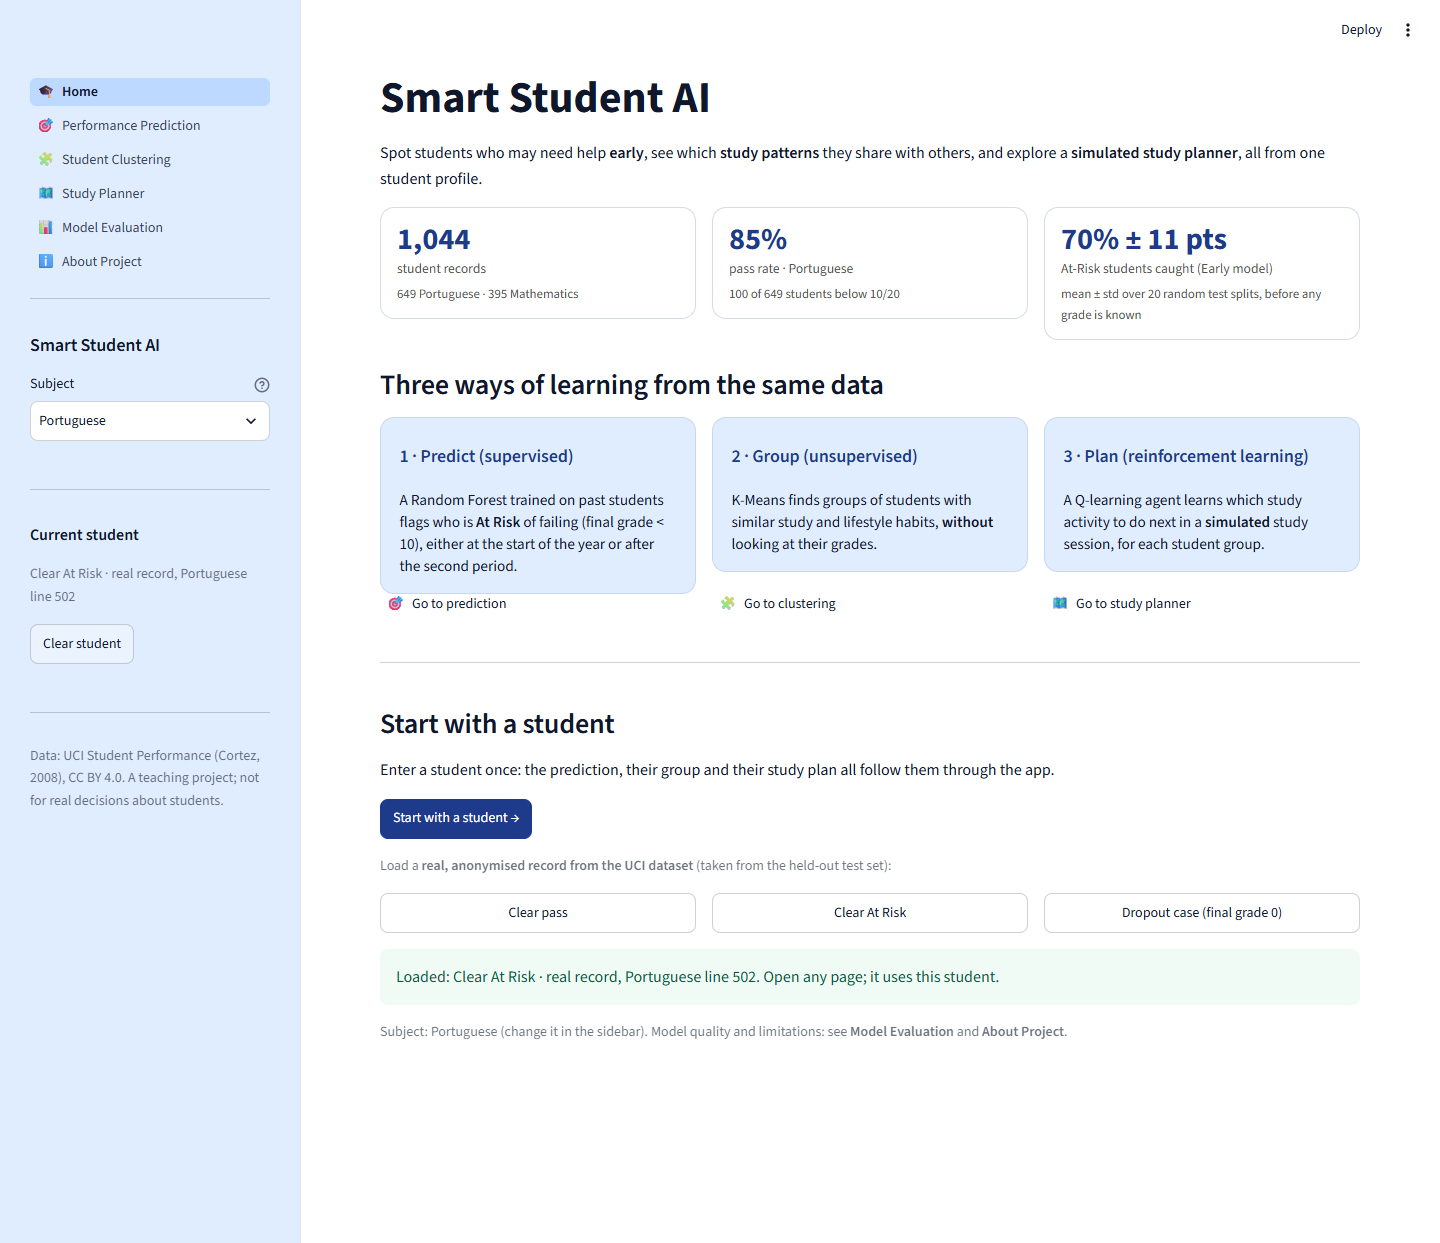
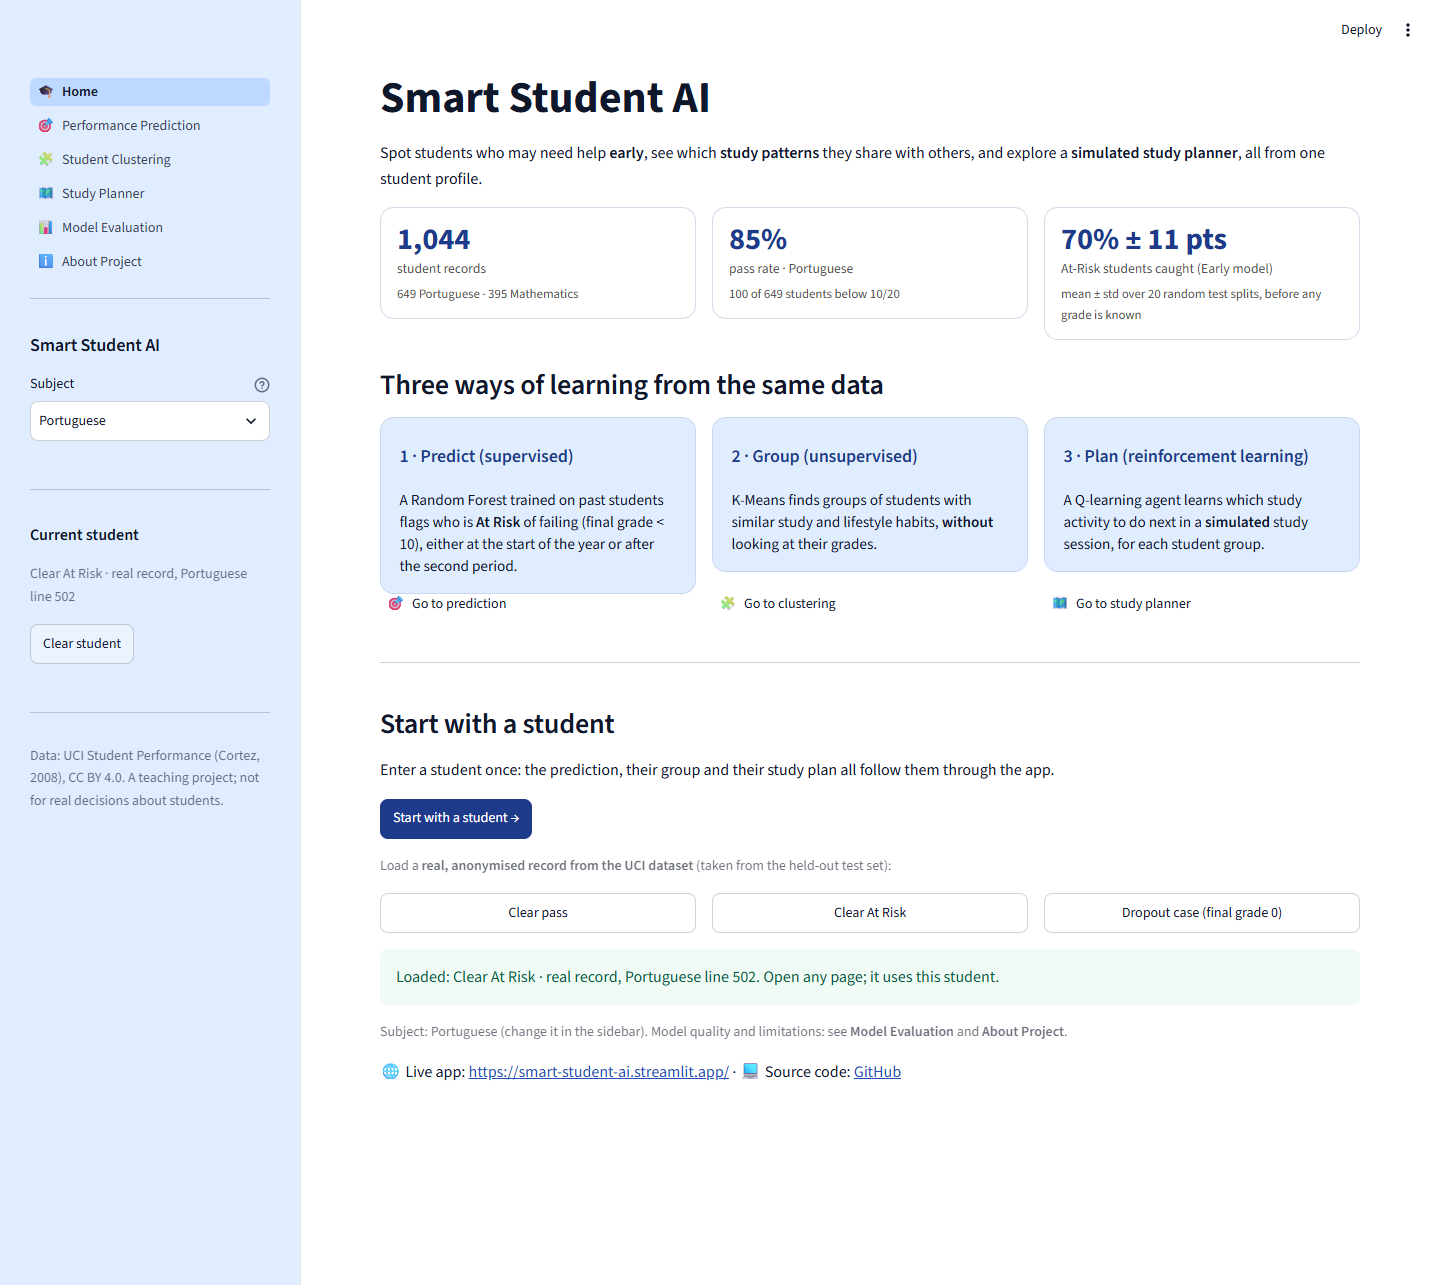
Phase 10: deployment

diff --git a/pages/1_Performance_Prediction.py b/pages/1_Performance_Prediction.py
@@ -70,16 +70,27 @@ def _submit() -> None:
     st.session_state["student"] = values
 
 
+key = ui.key_fields(scenario)
+order = (["G1", "G2"] if scenario == "midterm" else []) + [f for grp in ui.FORM_GROUPS.values() for f in grp]
+key = sorted(key, key=order.index)
+rest = [f for f in features if f not in key]
+
 with st.form("student_form"):
-    st.markdown("**Student details**  ·  only the information the model uses (sex is deliberately not used)")
-    groups = dict(ui.FORM_GROUPS)
-    if scenario == "midterm":
-        groups["Grades so far"] = ["G1", "G2"]
-    for name, fields in groups.items():
-        st.markdown(f"###### {name}")
-        cols = st.columns(3)
-        for i, f in enumerate([f for f in fields if f in features]):
-            widget(f, cols[i % 3])
+    st.markdown(f"**Key questions** ({len(key)} of {len(features)})")
+    cols = st.columns(3)
+    for i, f in enumerate(key):
+        widget(f, cols[i % 3])
+    with st.expander(f"More details (optional, {len(rest)} questions): typical values are used if you skip them"):
+        for name, fields in ui.FORM_GROUPS.items():
+            shown = [f for f in fields if f in rest]
+            if not shown:
+                continue
+            st.markdown(f"###### {name}")
+            cols = st.columns(3)
+            for i, f in enumerate(shown):
+                widget(f, cols[i % 3])
+    st.caption("Key questions = the inputs that matter most to the models (permutation importance, both subjects) "
+               "plus the six habits used for grouping and the study planner. Sex is deliberately not used.")
     st.form_submit_button("Predict", type="primary", on_click=_submit)
 
 # ---------------------------------------------------------------- result

diff --git a/src/ui.py b/src/ui.py
@@ -88,6 +88,21 @@ FORM_GROUPS = {
 STUDENT_FEATURES = [f for f in FEATURE_SPEC if f not in ("sex", "G3")]  # what the shared student holds
 
 
+def key_fields(scenario: str) -> list[str]:
+    """Questions shown first on the prediction form (the rest go in an optional section).
+
+    = the top KEY_FIELDS_PER_SUBJECT inputs by permutation importance in either subject's model for this
+    scenario, plus the six clustering habits (the Clustering and Study Planner pages need them).
+    Read from metrics.json, so the list follows the trained models.
+    """
+    from src.preprocessing import feature_columns
+
+    sup = metrics()["supervised"]["subjects"]
+    top = {d["feature"] for s in sup for d in sup[s][scenario]["permutation_importance"][:C.KEY_FIELDS_PER_SUBJECT]}
+    wanted = top | set(C.CLUSTER_FEATURES)
+    return [f for f in feature_columns(scenario) if f in wanted]
+
+
 def label(feature: str) -> str:
     """Plain-English label of a feature."""
     return FIELD_INFO.get(feature, {}).get("label", feature)

diff --git a/tests/test_app_smoke.py b/tests/test_app_smoke.py
@@ -146,3 +146,12 @@ def test_out_of_range_number_is_never_stored():
     next(b for b in at.button if b.label == "Predict").click().run()
     assert not at.exception
     assert 0 <= at.session_state["student"]["absences"] <= 93
+
+
+def test_form_shows_key_questions_and_hides_the_rest_in_an_expander():
+    at = run("pages/1_Performance_Prediction.py")
+    key = ui.key_fields("early")
+    assert 6 <= len(key) < 29 and set(key) >= set(ui.C.CLUSTER_FEATURES)
+    assert any("More details (optional" in str(e.label) for e in at.expander)
+    next(b for b in at.button if b.label == "Predict").click().run()
+    assert not at.exception and set(at.session_state["student"]) == set(ui.STUDENT_FEATURES)

diff --git a/app.py b/app.py
@@ -9,6 +9,7 @@ sys.path.insert(0, str(Path(__file__).resolve().parent))
 
 import streamlit as st  # noqa: E402
 
+from src import config as C  # noqa: E402
 from src import ui  # noqa: E402
 
 
@@ -63,6 +64,7 @@ def home() -> None:
 
     st.caption(f"Subject: {ui.SUBJECT_LABELS[subj]} (change it in the sidebar). Model quality and limitations: "
                "see **Model Evaluation** and **About Project**.")
+    st.markdown(f"🌐 Live app: [{C.APP_URL}]({C.APP_URL}) · 💻 Source code: [GitHub]({C.REPO_URL})")
 
 
 PAGES = [

diff --git a/src/config.py b/src/config.py
@@ -6,6 +6,9 @@ from pathlib import Path
 PROJECT_TEAM = "<team member names>"
 PROJECT_COURSE = "<course name>"
 PROJECT_INSTRUCTOR = "<instructor name>"
+APP_URL = "https://smart-student-ai.streamlit.app/"
+REPO_URL = "https://github.com/toohat322-hue/Smart-Student-AI"
+KEY_FIELDS_PER_SUBJECT = 5   # prediction form: top-N inputs by permutation importance, per subject
 
 # --- Paths -------------------------------------------------------------------
 ROOT_DIR = Path(__file__).resolve().parent.parent

diff --git a/DECISIONS.md b/DECISIONS.md
@@ -393,6 +393,28 @@ compare both models at their own tuned thresholds.
 
 ---
 
+## Phase 10 — Deployment
+
+### D29. Shorter prediction form: 12 key questions, the rest optional
+User feedback after deployment: the form asked too many questions. It now shows **12 key questions** (Early:
+12 of 29 inputs; Mid-term: 12 of 31). They are chosen by a rule, read from `metrics.json`: the top 5 inputs by
+permutation importance in either subject's model for the scenario, plus the six clustering habits, which the
+Clustering and Study Planner pages need. The other inputs are in an optional "More details" section and keep
+the typical value (training median or most common value) unless changed. The models and their inputs are
+unchanged; the form only changes which questions are asked first.
+
+### D30. Deployment
+- **GitHub:** public repo https://github.com/toohat322-hue/Smart-Student-AI, created and pushed with the
+  GitHub CLI. All 79 tracked files were checked on GitHub, including every model file, both CSVs and
+  `reports/metrics.json`; the largest model's git hash matches the local one.
+- **Streamlit Community Cloud:** https://smart-student-ai.streamlit.app/ (Python 3.11). The first deployment
+  used a page file as the entry point instead of `app.py`, so the page navigation was missing. The entry point
+  must be `app.py`.
+- The live URL and the repo link are on the Home page (from `APP_URL` and `REPO_URL` in `src/config.py`) and in
+  the README.
+
+---
+
 ## Future work
 - **Cluster-specific action effectiveness.** For example, if videos helped weaker students more, the
   clusters would get different policies. Modelling that needs data on which study activities students

diff --git a/README.md b/README.md
@@ -12,7 +12,7 @@ on the UCI Student Performance dataset:
 
 One student entered in the app flows through all three: risk prediction → their group → a study strategy.
 
-**Live demo:** <link>
+**Live demo:** https://smart-student-ai.streamlit.app/  ·  **Code:** https://github.com/toohat322-hue/Smart-Student-AI
 
 ![Home page](reports/screenshots/01_home.png)
 
